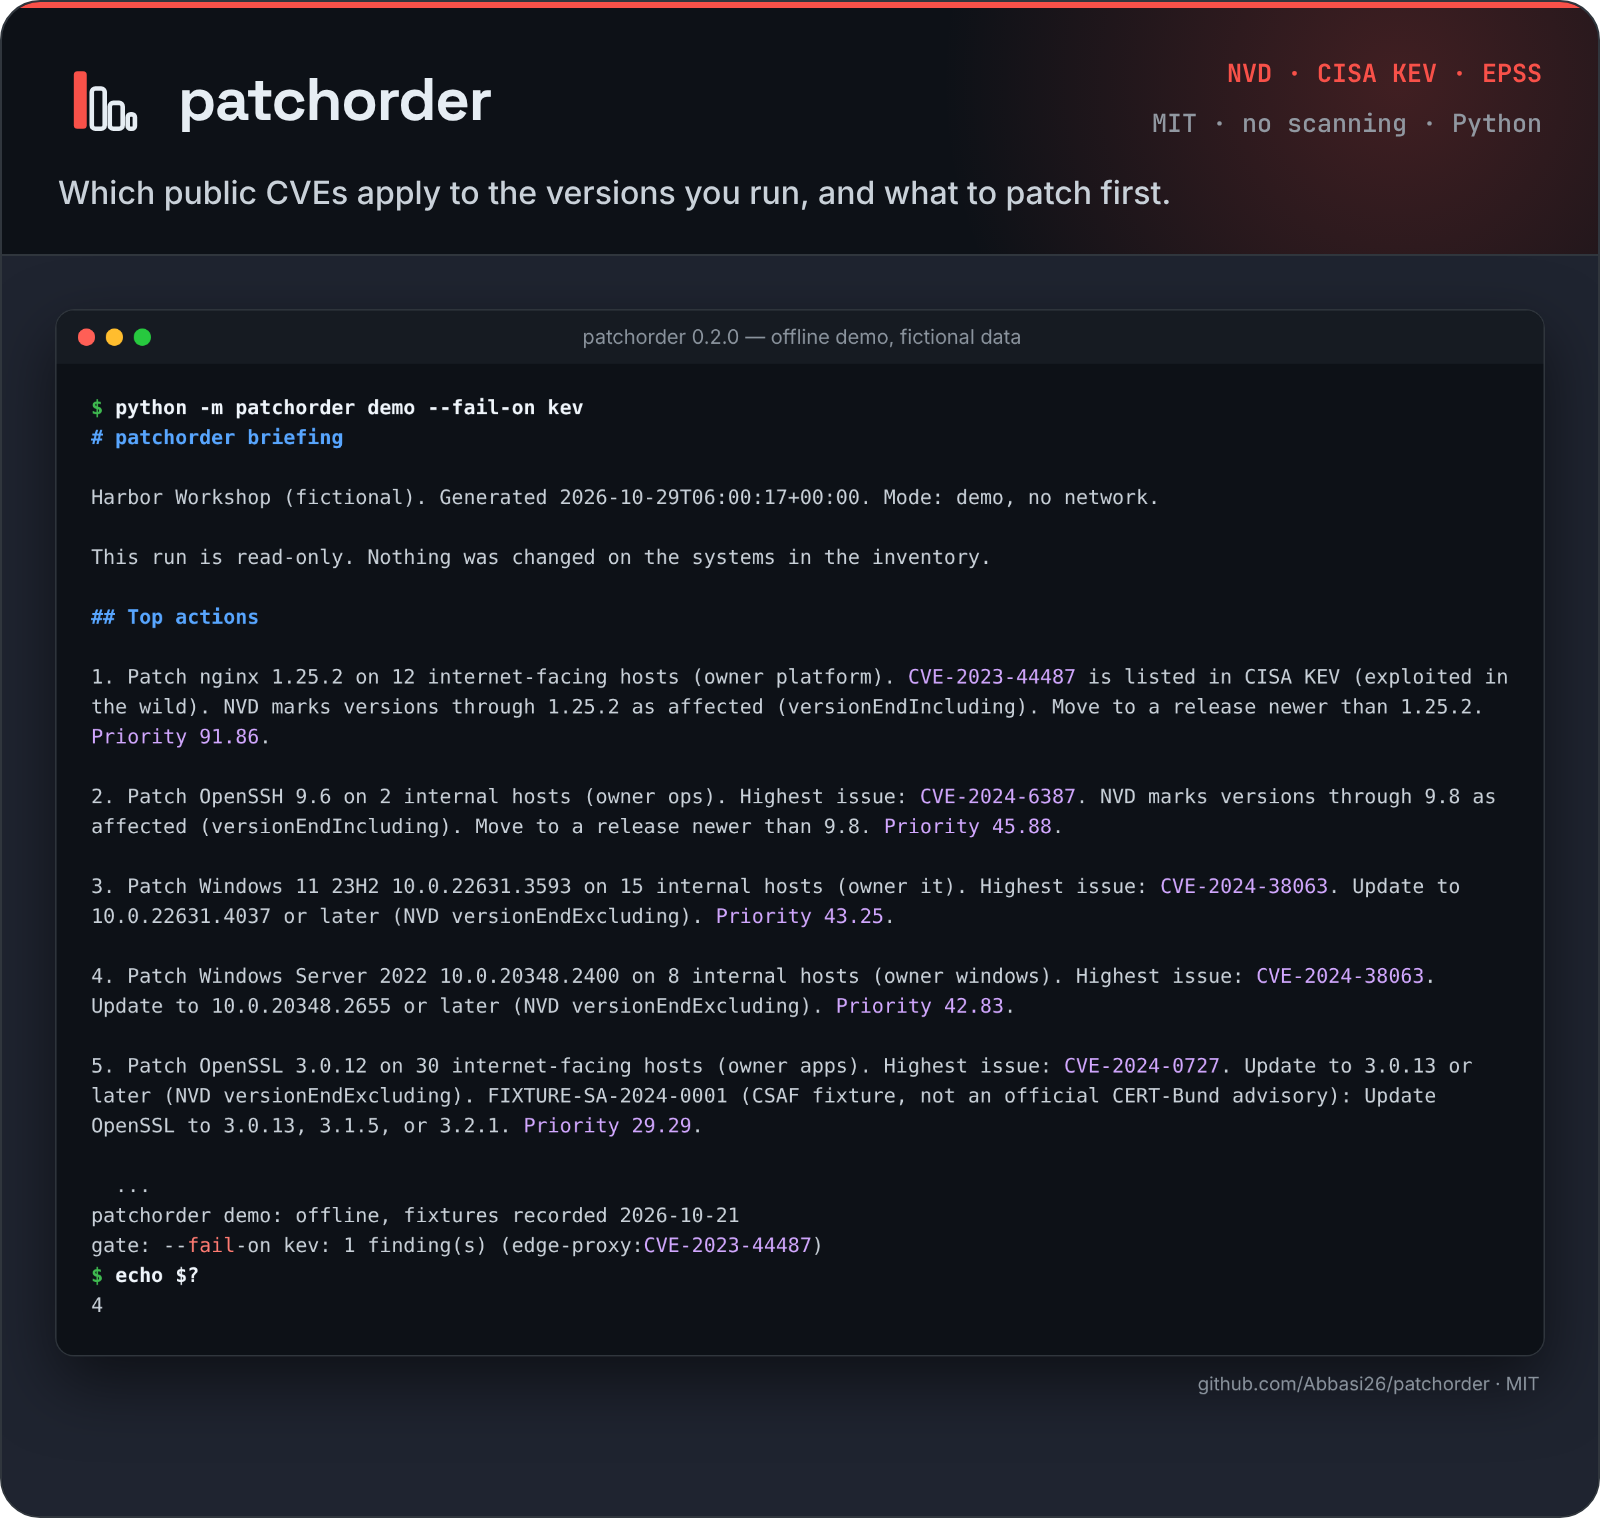
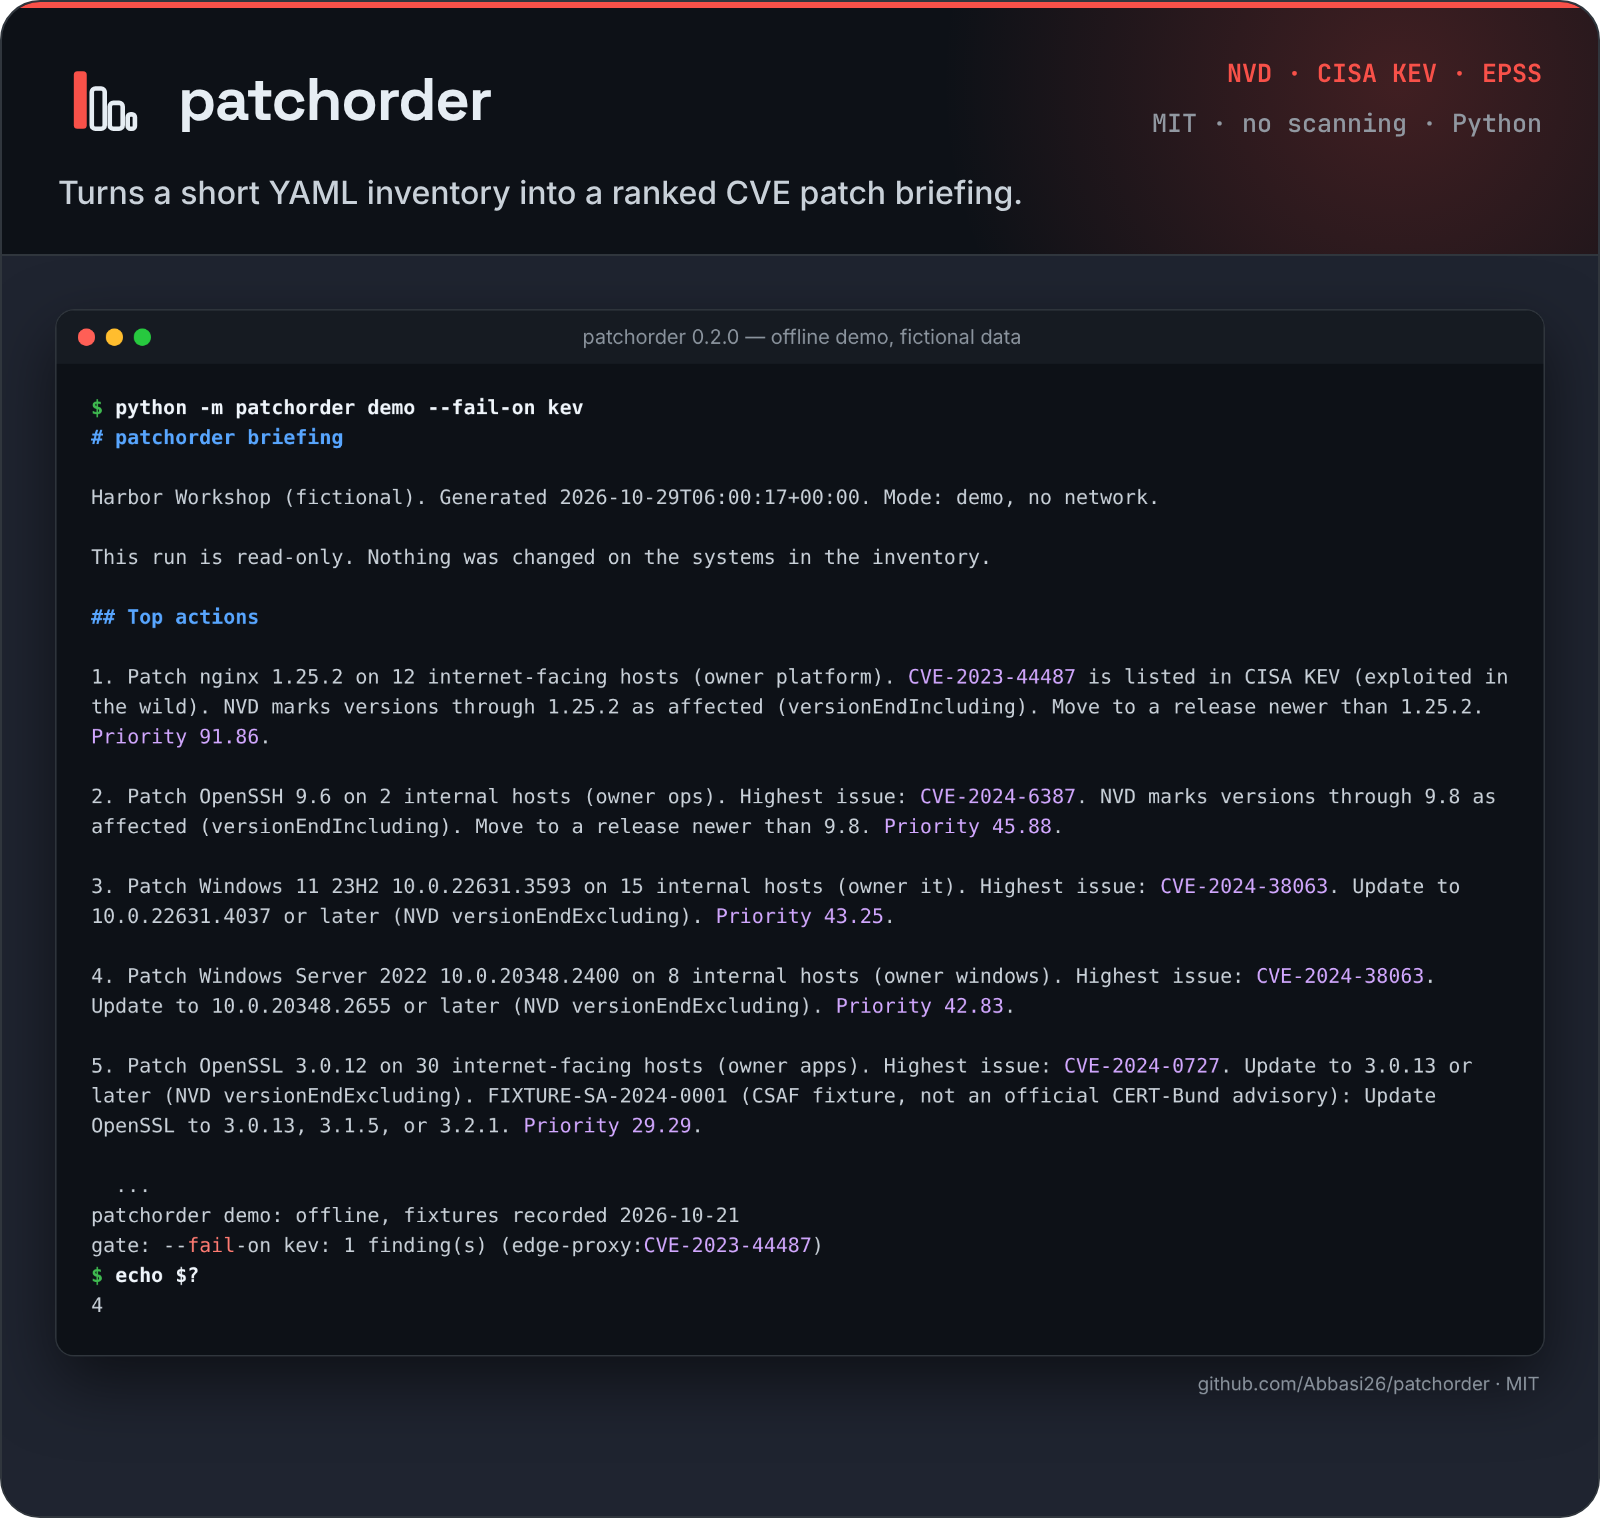
docs: update README header and hero from revised assets
Replaces the hero image, social preview and README header block with the revised design; the original title and the rest of the README are unchanged.

Changed region(s): [[0.0312, 0.1238, 0.7188, 0.1548]]

diff --git a/README.md b/README.md
@@ -6,7 +6,7 @@
   </picture>
 </p>
 
-<p align="center">Which public CVEs apply to the versions you run, and what to patch first.</p>
+<p align="center">Turns a short YAML inventory into a ranked CVE patch briefing.</p>
 
 <p align="center">
   <img src="docs/assets/readme-hero.png" width="800" alt="Terminal output of patchorder demo --fail-on kev: a briefing for a fictional inventory with the top five patch actions, CVE ids and priorities, and a KEV gate that exits with code 4.">
